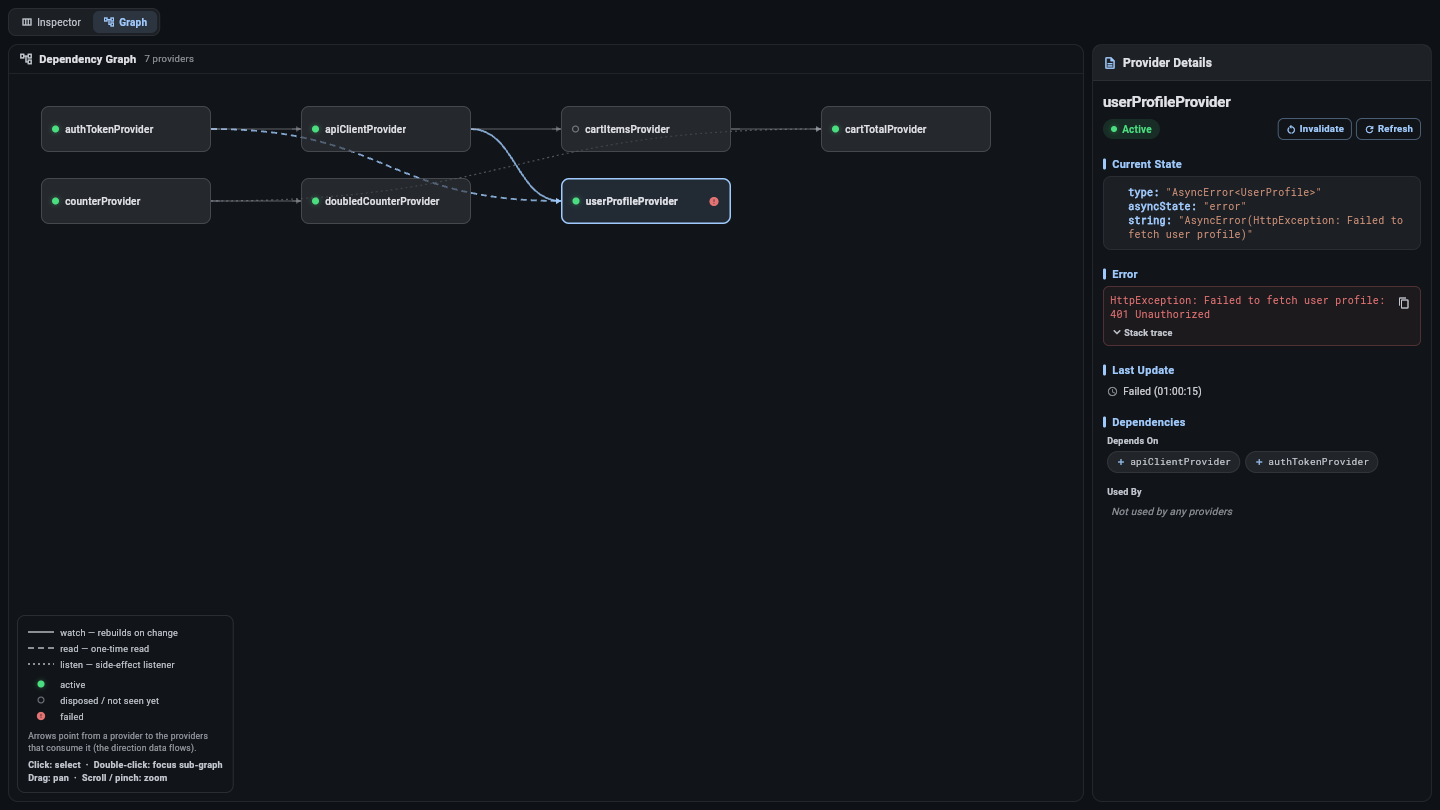
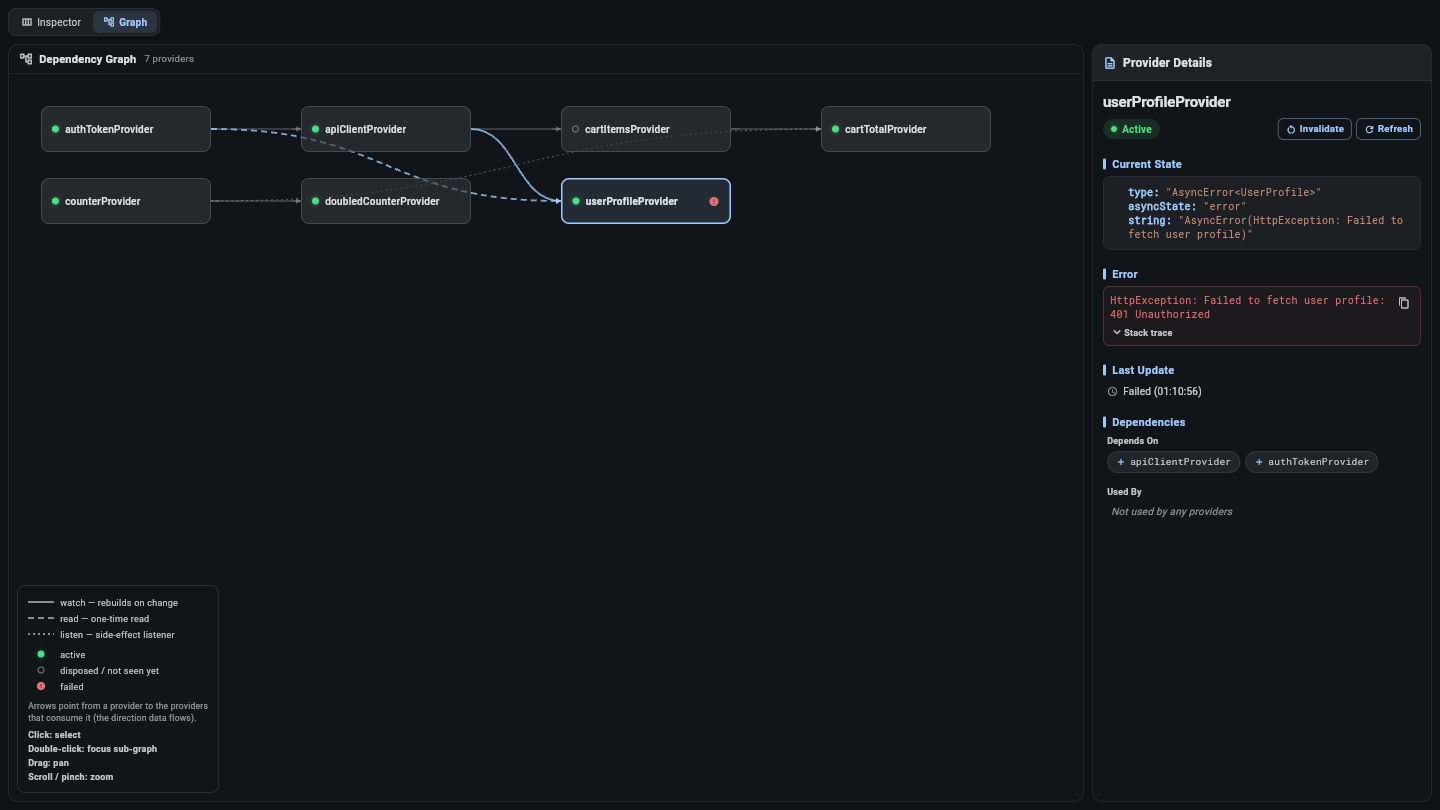
Put each legend gesture hint on its own line
Claude-Session: https://claude.ai/code/session_01LNVDQSABpqNC2NdaJ9GUPb

Changed region(s): [[0.0, 0.7407, 0.1562, 0.9877]]

diff --git a/packages/riverpod_devtools_extension/lib/src/widgets/graph/graph_view.dart b/packages/riverpod_devtools_extension/lib/src/widgets/graph/graph_view.dart
@@ -364,9 +364,11 @@ class _GraphLegend extends StatelessWidget {
           ),
           const SizedBox(height: 4),
           Text(
-            'Click: select  ·  Double-click: focus sub-graph\n'
-            'Drag: pan  ·  Scroll / pinch: zoom',
-            style: labelStyle.copyWith(fontWeight: FontWeight.w600),
+            'Click: select\n'
+            'Double-click: focus sub-graph\n'
+            'Drag: pan\n'
+            'Scroll / pinch: zoom',
+            style: labelStyle.copyWith(fontWeight: FontWeight.w600, height: 1.5),
           ),
         ],
       ),
@@ -451,7 +453,7 @@ class _GraphNode extends StatelessWidget {
     return Opacity(
       opacity: isDimmed ? 0.25 : 1,
       child: Tooltip(
-        message: '$name\nClick: select · Double-click: focus sub-graph',
+        message: '$name\nClick: select\nDouble-click: focus sub-graph',
         waitDuration: const Duration(milliseconds: 600),
         child: GestureDetector(
           onTap: onTap,
